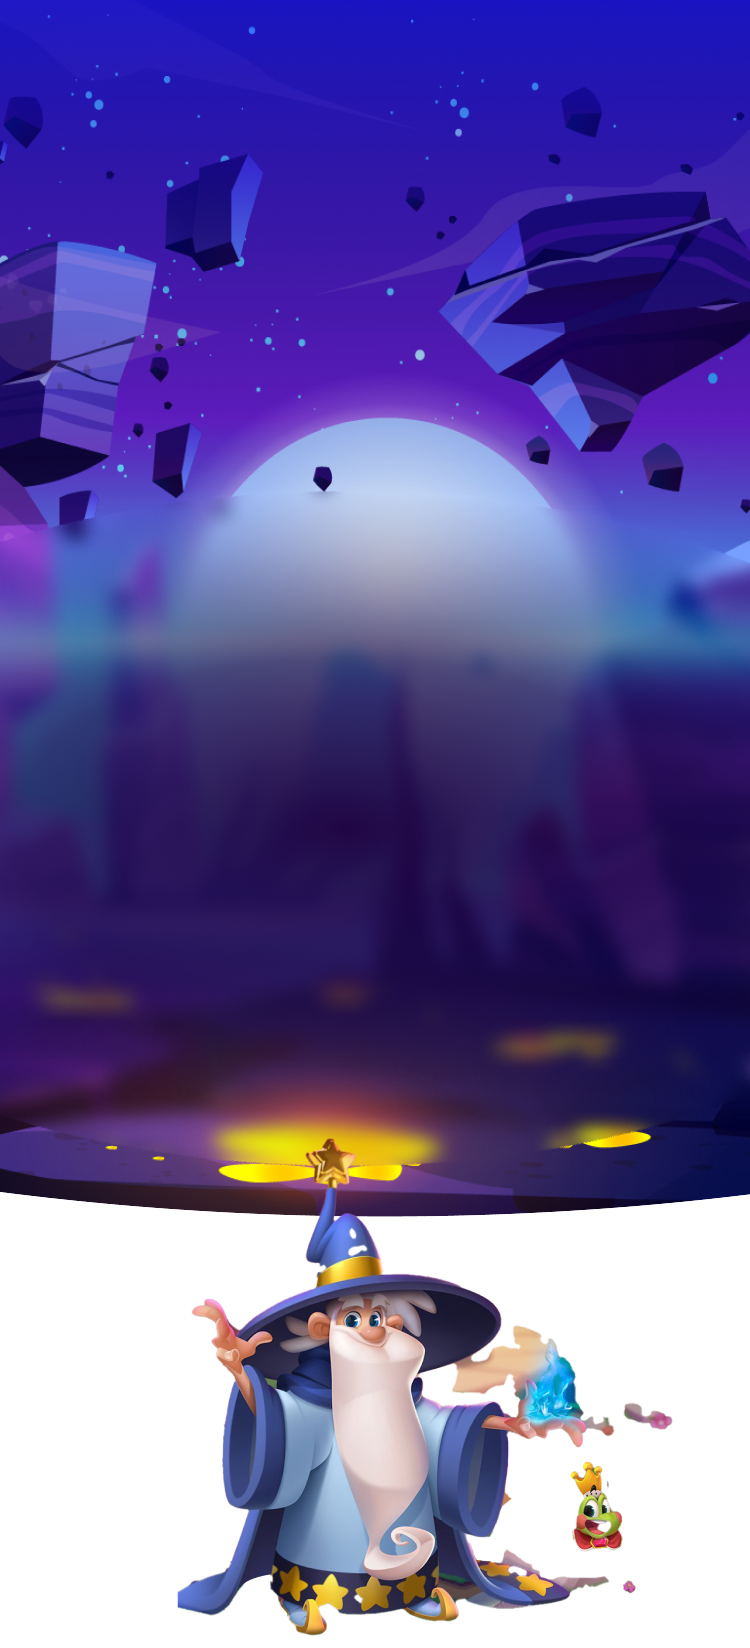
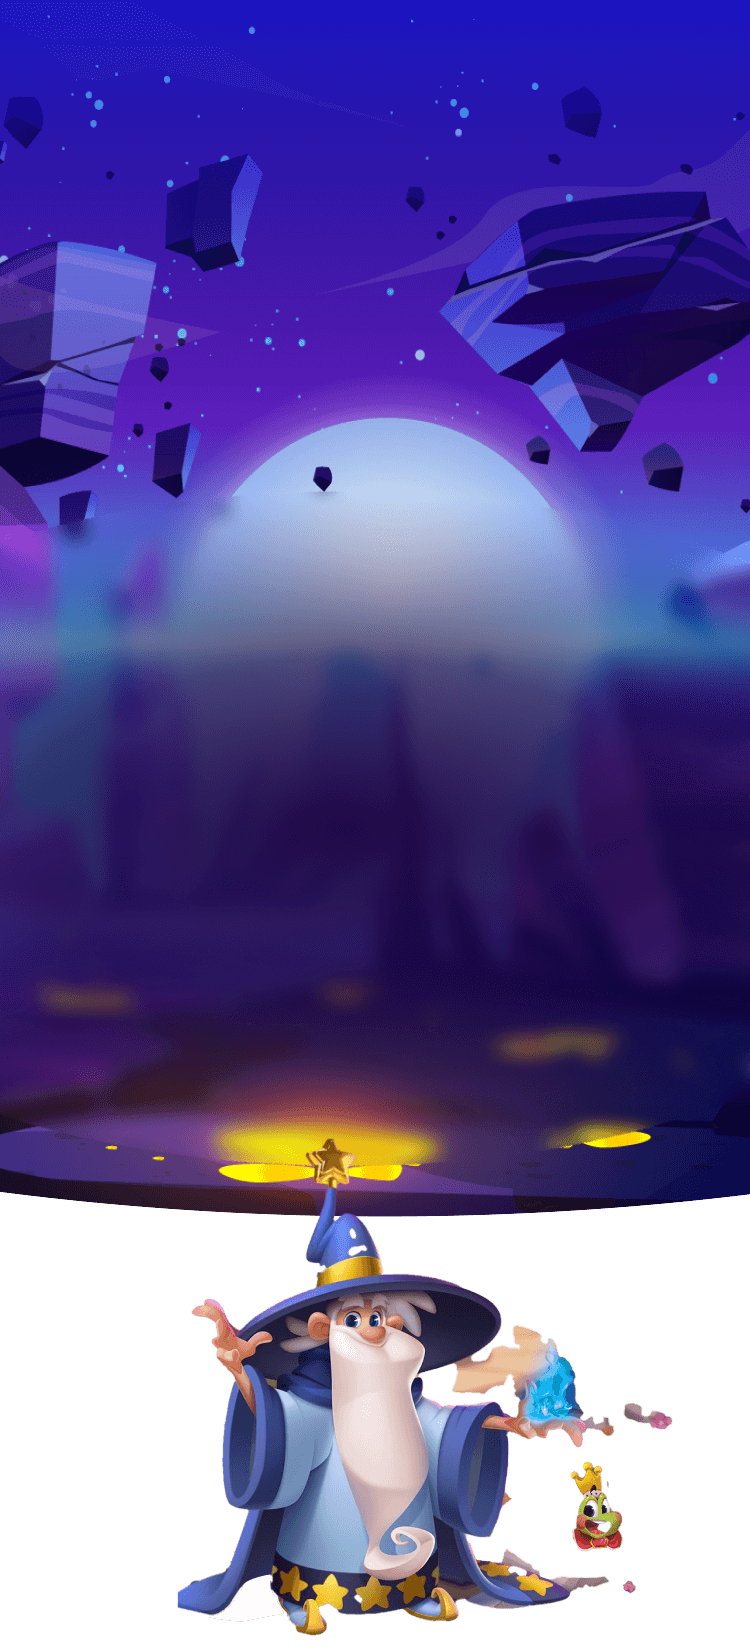
optimize image and fix css

diff --git a/src/shared/components/common/lang-dropdown.jsx b/src/shared/components/common/lang-dropdown.jsx
@@ -33,7 +33,7 @@ export default function LangDropdown({iconDropdown = "/images/ic_dropdown.png"})
         </button>
       </div>
       <div
-        className={`absolute top-[80px] sm:top-[100%] left-0 sm:right-0 w-[156px] p-2 !capitalize text-[10px] rounded-lg bg-white z-20 ${
+        className={`absolute top-[80px] sm:top-[100%] left-0 sm:left-auto sm:right-0 w-[156px] p-2 !capitalize text-[10px] rounded-lg bg-white z-20 ${
           showDropdown ? "block" : "hidden"
         } text-black`}
       >
